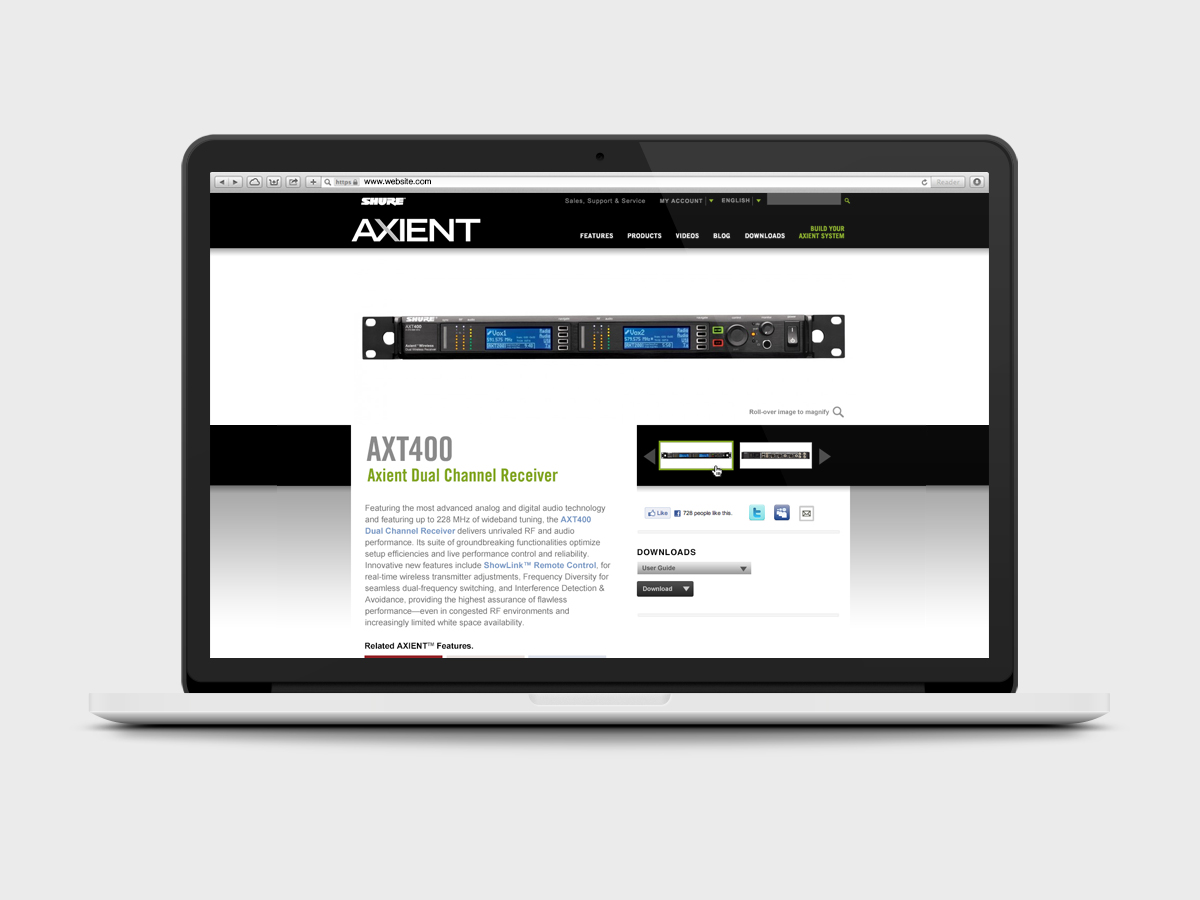
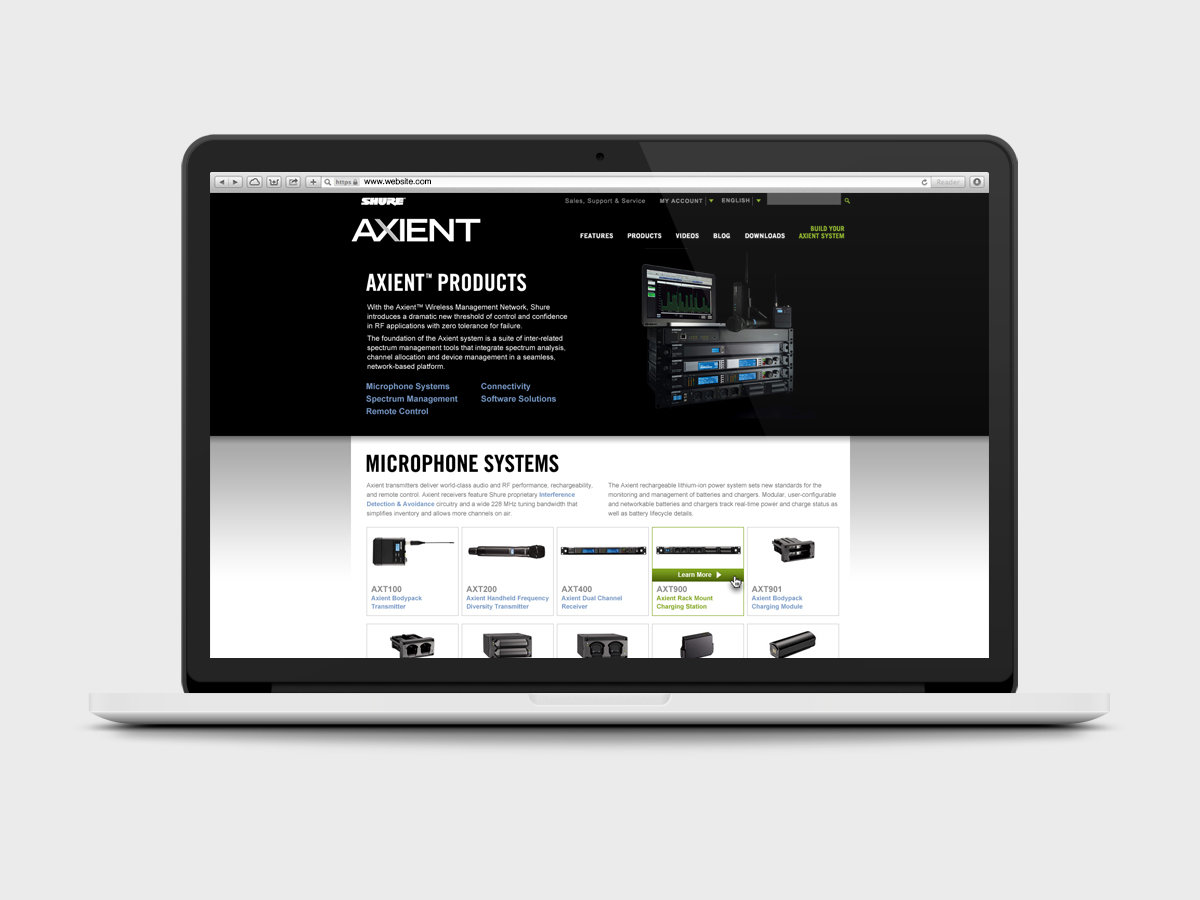
Work sub-pages: second pass with curated images in Pete's order

Changed region(s): [[0.1542, 0.2489, 0.8325, 0.7467]]

diff --git a/work/application.html b/work/application.html
@@ -42,17 +42,15 @@
           <h2>BenAdv — Benefits Advisor Enrollment</h2>
           <p class="work-project-desc">Full redesign of a benefits-management company's enrollment experience. A new web portal promoting benefit selection during open enrollment — employees could add, review, and edit personal info before selecting from their available benefits.</p>
           <div class="image-grid">
-            <div class="image-cell"><img src="../images/work/application/benadv_ee.png" alt="BenAdv Employee Experience"></div>
-            <div class="image-cell"><img src="../images/work/application/benadv_er.png" alt="BenAdv Employer Experience"></div>
-            <div class="image-cell"><img src="../images/work/application/home-_-open-enrollment.png" alt="Home — Open Enrollment"></div>
-            <div class="image-cell"><img src="../images/work/application/enrollment-_-welcome-what-s-to-come-1.png" alt="Enrollment Welcome"></div>
-            <div class="image-cell"><img src="../images/work/application/enrollment-_-tier-selection.png" alt="Enrollment Tier Selection"></div>
-            <div class="image-cell"><img src="../images/work/application/enrollment-_-plan-wall-3.png" alt="Enrollment Plan Wall"></div>
-            <div class="image-cell"><img src="../images/work/application/enrollment-_-benefit-selection-knockout.png" alt="Benefit Selection"></div>
-            <div class="image-cell"><img src="../images/work/application/enrollment-_-dependent-_-review.png" alt="Dependent Review"></div>
-            <div class="image-cell"><img src="../images/work/application/enrollment-_-review-_-cart.png" alt="Review Cart"></div>
-            <div class="image-cell"><img src="../images/work/application/portal-_-your-profle.png" alt="Portal Profile"></div>
-            <div class="image-cell"><img src="../images/work/application/portal-_-your-profle-_-dependents.png" alt="Portal Profile Dependents"></div>
+            <div class="image-cell"><img src="../images/work/application/benadv_ee-logo.png" alt="BenAdv"></div>
+            <div class="image-cell"><img src="../images/work/application/01-benadv-portal-_-your-profle.png" alt="Portal — Your Profile"></div>
+            <div class="image-cell"><img src="../images/work/application/02-benadv-portal-_-your-profle-_-dependents.png" alt="Portal — Your Profile — Dependents"></div>
+            <div class="image-cell"><img src="../images/work/application/03-benadv-enroll_home_open-enrollment.png" alt="Home — Open Enrollment"></div>
+            <div class="image-cell"><img src="../images/work/application/04-benadv-enroll_dependent-_-review.png" alt="Enrollment — Dependent Review"></div>
+            <div class="image-cell"><img src="../images/work/application/05-benadv-enroll_benefit-selection-knockout.png" alt="Enrollment — Benefit Selection"></div>
+            <div class="image-cell"><img src="../images/work/application/06-benadv-enroll_tier-selection.png" alt="Enrollment — Tier Selection"></div>
+            <div class="image-cell"><img src="../images/work/application/07-benadv-enroll_plan-wall-3.png" alt="Enrollment — Plan Wall"></div>
+            <div class="image-cell"><img src="../images/work/application/08-benadv-enroll_review-_-cart.png" alt="Enrollment — Review Cart"></div>
           </div>
         </div>
 
@@ -61,36 +59,36 @@
           <h2>PEOPLE</h2>
           <p class="work-project-desc">Custom HR onboarding application giving companies deep customization over their onboarding flows — including a document-signing experience with legal and W2 capability, plus document and video sharing. The work covered both the HR-admin backend UX and the employee-facing experience used throughout an employee's tenure.</p>
           <div class="image-grid">
-            <div class="image-cell"><img src="../images/work/application/people-ee.png" alt="PEOPLE Employee Experience"></div>
+            <div class="image-cell"><img src="../images/work/application/people-ee-logo.png" alt="PEOPLE Employee Experience"></div>
+            <div class="image-cell"><img src="../images/work/application/01_ee-people-homeprogress_v2.png" alt="EE — Home Progress"></div>
+            <div class="image-cell"><img src="../images/work/application/02_ee-people-home_v2.png" alt="EE — Home"></div>
+            <div class="image-cell"><img src="../images/work/application/03_ee-people-_task-i9_v2f2.png" alt="EE — I-9 Task"></div>
+            <div class="image-cell"><img src="../images/work/application/04_ee-people-mh-esign_v1.png" alt="EE — eSign"></div>
+            <div class="image-cell"><img src="../images/work/application/05_ee-people-task-fedw-4_wetsign.png" alt="EE — Federal W-4 Wet Signature"></div>
             <div class="image-cell"><img src="../images/work/application/people-er.png" alt="PEOPLE Employer Experience"></div>
-            <div class="image-cell"><img src="../images/work/application/01-home_updateroster_v1.png" alt="HR Update Roster"></div>
-            <div class="image-cell"><img src="../images/work/application/01_homeprogress_v2.png" alt="Onboarding Home Progress"></div>
-            <div class="image-cell"><img src="../images/work/application/02_ee-home_v2.png" alt="Employee Home"></div>
-            <div class="image-cell"><img src="../images/work/application/03_mh-esign_v1.png" alt="eSign Experience"></div>
-            <div class="image-cell"><img src="../images/work/application/013_task-fedw-4_wetsign_v2.png" alt="Federal W-4 Wet Signature"></div>
-            <div class="image-cell"><img src="../images/work/application/013s12_task-i9_v2f2.png" alt="I-9 Task"></div>
-            <div class="image-cell"><img src="../images/work/application/013s16-siteconfig_v1g_contentmarket.png" alt="Site Config Content Marketplace"></div>
-            <div class="image-cell"><img src="../images/work/application/013s19-er_wf-archived_v1.png" alt="Employer Archived Workflows"></div>
-            <div class="image-cell"><img src="../images/work/application/013s20-ee_profile_docs_v1.png" alt="Employee Profile Documents"></div>
-            <div class="image-cell"><img src="../images/work/application/013s20-er_wf-ee-progress_v1.png" alt="Employer Workflow Employee Progress"></div>
+            <div class="image-cell"><img src="../images/work/application/01-er-people-home_updateroster_v1.png" alt="ER — Update Roster"></div>
+            <div class="image-cell"><img src="../images/work/application/02-er-people-wf-ee-progress_v1.png" alt="ER — Employee Progress"></div>
+            <div class="image-cell"><img src="../images/work/application/03-er-people-wf-archived_v1.png" alt="ER — Archived Workflows"></div>
+            <div class="image-cell"><img src="../images/work/application/04-er_people-profile_docs_v1.png" alt="ER — Profile Documents"></div>
+            <div class="image-cell"><img src="../images/work/application/05-er-people-siteconfig_contentmarket.png" alt="ER — Site Config Content Marketplace"></div>
           </div>
         </div>
 
-        <!-- Concierge Mgmt -->
+        <!-- Concierge Management -->
         <div class="content-section">
           <h2>Concierge Management</h2>
           <p class="work-project-desc">Lorem ipsum dolor sit amet, consectetur adipiscing elit. Pellentesque habitant morbi tristique senectus et netus et malesuada fames ac turpis egestas — placeholder copy, replace with project description.</p>
           <div class="image-grid">
-            <div class="image-cell"><img src="../images/work/application/conciergemgmt_hz.png" alt="Concierge Management Overview"></div>
-            <div class="image-cell"><img src="../images/work/application/cm_00-home.png" alt="Concierge Management Home"></div>
-            <div class="image-cell"><img src="../images/work/application/cm_01-group-profile.png" alt="Group Profile"></div>
-            <div class="image-cell"><img src="../images/work/application/cm_03-group-locations.png" alt="Group Locations"></div>
-            <div class="image-cell"><img src="../images/work/application/cm_03-group-add-locations.png" alt="Add Group Locations"></div>
-            <div class="image-cell"><img src="../images/work/application/cm_memberadd.png" alt="Add Member"></div>
-            <div class="image-cell"><img src="../images/work/application/cm_memberinvites.png" alt="Member Invites"></div>
-            <div class="image-cell"><img src="../images/work/application/cm_products.png" alt="Products"></div>
-            <div class="image-cell"><img src="../images/work/application/cm_products-add.png" alt="Add Products"></div>
-            <div class="image-cell"><img src="../images/work/application/cm_qle_detail.png" alt="QLE Detail"></div>
+            <div class="image-cell"><img src="../images/work/application/conciergemgmt_logo.png" alt="Concierge Management"></div>
+            <div class="image-cell"><img src="../images/work/application/cm_00-home.png" alt="Concierge — Home"></div>
+            <div class="image-cell"><img src="../images/work/application/cm_01-group-profile.png" alt="Concierge — Group Profile"></div>
+            <div class="image-cell"><img src="../images/work/application/cm_02-group-locations.png" alt="Concierge — Group Locations"></div>
+            <div class="image-cell"><img src="../images/work/application/cm_03-group-add-locations.png" alt="Concierge — Add Locations"></div>
+            <div class="image-cell"><img src="../images/work/application/cm_04-products.png" alt="Concierge — Products"></div>
+            <div class="image-cell"><img src="../images/work/application/cm_05-products-add.png" alt="Concierge — Add Products"></div>
+            <div class="image-cell"><img src="../images/work/application/cm_06-memberinvites.png" alt="Concierge — Member Invites"></div>
+            <div class="image-cell"><img src="../images/work/application/cm_07-memberadd.png" alt="Concierge — Add Member"></div>
+            <div class="image-cell"><img src="../images/work/application/cm_08-qle_detail.png" alt="Concierge — QLE Detail"></div>
           </div>
         </div>
 

diff --git a/work/web.html b/work/web.html
@@ -42,10 +42,10 @@
           <h2>Great Coffee</h2>
           <p class="work-project-desc">Lorem ipsum dolor sit amet, consectetur adipiscing elit — placeholder copy, replace with project description.</p>
           <div class="image-grid">
-            <div class="image-cell"><img src="../images/work/web/greatcoffee_home.png" alt="Great Coffee Home"></div>
-            <div class="image-cell"><img src="../images/work/web/greatcoffee_detail.png" alt="Great Coffee Detail"></div>
-            <div class="image-cell"><img src="../images/work/web/greatcoffee_cart.png" alt="Great Coffee Cart"></div>
-            <div class="image-cell"><img src="../images/work/web/greatcoffee_wall.png" alt="Great Coffee Wall"></div>
+            <div class="image-cell"><img src="../images/work/web/greatcoffee_01-home.png" alt="Great Coffee — Home"></div>
+            <div class="image-cell"><img src="../images/work/web/greatcoffee_02-wall.png" alt="Great Coffee — Wall"></div>
+            <div class="image-cell"><img src="../images/work/web/greatcoffee_03-detail.png" alt="Great Coffee — Detail"></div>
+            <div class="image-cell"><img src="../images/work/web/greatcoffee_04-cart.png" alt="Great Coffee — Cart"></div>
           </div>
         </div>
 
@@ -54,9 +54,9 @@
           <h2>Popcorn Palace</h2>
           <p class="work-project-desc">Lorem ipsum dolor sit amet, consectetur adipiscing elit — placeholder copy, replace with project description.</p>
           <div class="image-grid">
-            <div class="image-cell"><img src="../images/work/web/popcorn-palace_home.png" alt="Popcorn Palace Home"></div>
-            <div class="image-cell"><img src="../images/work/web/popcorn-palace_detail.png" alt="Popcorn Palace Detail"></div>
-            <div class="image-cell"><img src="../images/work/web/popcorn-palace_club.png" alt="Popcorn Palace Club"></div>
+            <div class="image-cell"><img src="../images/work/web/popcorn-palace_01-home.png" alt="Popcorn Palace — Home"></div>
+            <div class="image-cell"><img src="../images/work/web/popcorn-palace_02-detail.png" alt="Popcorn Palace — Detail"></div>
+            <div class="image-cell"><img src="../images/work/web/popcorn-palace_03-club.png" alt="Popcorn Palace — Club"></div>
           </div>
         </div>
 
@@ -65,10 +65,10 @@
           <h2>Sophia Graydon</h2>
           <p class="work-project-desc">Lorem ipsum dolor sit amet, consectetur adipiscing elit — placeholder copy, replace with project description.</p>
           <div class="image-grid">
-            <div class="image-cell"><img src="../images/work/web/sophiagraydon_home.png" alt="Sophia Graydon Home"></div>
-            <div class="image-cell"><img src="../images/work/web/sophiagraydon_detail.png" alt="Sophia Graydon Detail"></div>
-            <div class="image-cell"><img src="../images/work/web/sophiagraydon_breakdown1.png" alt="Sophia Graydon Breakdown 1"></div>
-            <div class="image-cell"><img src="../images/work/web/sophiagraydon_breakdown2.png" alt="Sophia Graydon Breakdown 2"></div>
+            <div class="image-cell"><img src="../images/work/web/sophiagraydon_01-home.png" alt="Sophia Graydon — Home"></div>
+            <div class="image-cell"><img src="../images/work/web/sophiagraydon_02-detail.png" alt="Sophia Graydon — Detail"></div>
+            <div class="image-cell"><img src="../images/work/web/sophiagraydon_03-grid1.png" alt="Sophia Graydon — Grid 1"></div>
+            <div class="image-cell"><img src="../images/work/web/sophiagraydon_04-grid2.png" alt="Sophia Graydon — Grid 2"></div>
           </div>
         </div>
 
@@ -77,9 +77,9 @@
           <h2>Nature's One</h2>
           <p class="work-project-desc">Lorem ipsum dolor sit amet, consectetur adipiscing elit — placeholder copy, replace with project description.</p>
           <div class="image-grid">
-            <div class="image-cell"><img src="../images/work/web/naturesone_home.png" alt="Nature's One Home"></div>
-            <div class="image-cell"><img src="../images/work/web/naturesone_detail.png" alt="Nature's One Detail"></div>
-            <div class="image-cell"><img src="../images/work/web/naturesone_article.png" alt="Nature's One Article"></div>
+            <div class="image-cell"><img src="../images/work/web/naturesone_01-home.png" alt="Nature's One — Home"></div>
+            <div class="image-cell"><img src="../images/work/web/naturesone_02-detail.png" alt="Nature's One — Detail"></div>
+            <div class="image-cell"><img src="../images/work/web/naturesone_03-article.png" alt="Nature's One — Article"></div>
           </div>
         </div>
 
@@ -88,8 +88,8 @@
           <h2>Grant Thornton</h2>
           <p class="work-project-desc">Lorem ipsum dolor sit amet, consectetur adipiscing elit — placeholder copy, replace with project description.</p>
           <div class="image-grid">
-            <div class="image-cell"><img src="../images/work/web/grant-thornton_home.png" alt="Grant Thornton Home"></div>
-            <div class="image-cell"><img src="../images/work/web/grant-thornton_detail.png" alt="Grant Thornton Detail"></div>
+            <div class="image-cell"><img src="../images/work/web/grant-thornton_01-home.png" alt="Grant Thornton — Home"></div>
+            <div class="image-cell"><img src="../images/work/web/grant-thornton_02-detail.png" alt="Grant Thornton — Detail"></div>
           </div>
         </div>
 
@@ -98,8 +98,8 @@
           <h2>American College of Surgeons</h2>
           <p class="work-project-desc">Lorem ipsum dolor sit amet, consectetur adipiscing elit — placeholder copy, replace with project description.</p>
           <div class="image-grid">
-            <div class="image-cell"><img src="../images/work/web/acs_home.png" alt="ACS Home"></div>
-            <div class="image-cell"><img src="../images/work/web/acs_detail.png" alt="ACS Detail"></div>
+            <div class="image-cell"><img src="../images/work/web/acs_01-home.png" alt="ACS — Home"></div>
+            <div class="image-cell"><img src="../images/work/web/acs_02-detail.png" alt="ACS — Detail"></div>
           </div>
         </div>
 
@@ -108,9 +108,9 @@
           <h2>KATE</h2>
           <p class="work-project-desc">Lorem ipsum dolor sit amet, consectetur adipiscing elit — placeholder copy, replace with project description.</p>
           <div class="image-grid">
-            <div class="image-cell"><img src="../images/work/web/kate_wf4_presentation-3.png" alt="KATE Wireframe"></div>
-            <div class="image-cell"><img src="../images/work/web/kate_wf4_presentation-7.png" alt="KATE Wireframe"></div>
-            <div class="image-cell"><img src="../images/work/web/kate_wf4_presentation-15.png" alt="KATE Wireframe"></div>
+            <div class="image-cell"><img src="../images/work/web/kate_wf4_presentation-01.png" alt="KATE — Wireframe 1"></div>
+            <div class="image-cell"><img src="../images/work/web/kate_wf4_presentation-02.png" alt="KATE — Wireframe 2"></div>
+            <div class="image-cell"><img src="../images/work/web/kate_wf4_presentation-03.png" alt="KATE — Wireframe 3"></div>
           </div>
         </div>
 
@@ -120,8 +120,8 @@
           <p class="work-project-desc">Lorem ipsum dolor sit amet, consectetur adipiscing elit — placeholder copy and project name, replace before launch.</p>
           <div class="image-grid">
             <div class="image-cell"><img src="../images/work/web/ax1.jpg" alt="AX Project"></div>
+            <div class="image-cell"><img src="../images/work/web/ax2.jpg" alt="AX Project"></div>
             <div class="image-cell"><img src="../images/work/web/ax3.jpg" alt="AX Project"></div>
-            <div class="image-cell"><img src="../images/work/web/ax4.jpg" alt="AX Project"></div>
           </div>
         </div>
 

diff --git a/work/brands.html b/work/brands.html
@@ -42,10 +42,9 @@
           <h2>Hotel SAX</h2>
           <p class="work-project-desc">Lorem ipsum dolor sit amet, consectetur adipiscing elit — placeholder copy, replace with project description.</p>
           <div class="image-grid">
-            <div class="image-cell"><img src="../images/work/brands/hotelsax_webhome.png" alt="Hotel SAX Web Home"></div>
-            <div class="image-cell"><img src="../images/work/brands/hotelsax_web-experience.png" alt="Hotel SAX Web Experience"></div>
-            <div class="image-cell"><img src="../images/work/brands/hotelsax_brochurespreads.png" alt="Hotel SAX Brochure Spreads"></div>
-            <div class="image-cell"><img src="../images/work/brands/hotelsax_customcarrier.png" alt="Hotel SAX Custom Carrier"></div>
+            <div class="image-cell"><img src="../images/work/brands/01_hotelsax_webhome.png" alt="Hotel SAX — Web Home"></div>
+            <div class="image-cell"><img src="../images/work/brands/02_hotelsax_web-experience.png" alt="Hotel SAX — Web Experience"></div>
+            <div class="image-cell"><img src="../images/work/brands/03_hotelsax_brochurespreads.png" alt="Hotel SAX — Brochure Spreads"></div>
           </div>
         </div>
 
@@ -54,8 +53,8 @@
           <h2>RAID</h2>
           <p class="work-project-desc">Lorem ipsum dolor sit amet, consectetur adipiscing elit — placeholder copy, replace with project description.</p>
           <div class="image-grid">
-            <div class="image-cell"><img src="../images/work/brands/raid-dm-fullsize-pieced.jpg" alt="RAID Direct Mail"></div>
-            <div class="image-cell"><img src="../images/work/brands/raid-bug-shirts_2.jpg" alt="RAID Bug Shirts"></div>
+            <div class="image-cell"><img src="../images/work/brands/01_raid-bug-shirts_2.jpg" alt="RAID — Bug Shirts"></div>
+            <div class="image-cell"><img src="../images/work/brands/02_raid-b1921-rk_header_hd_1.jpg" alt="RAID — RK Header"></div>
           </div>
         </div>
 
@@ -64,10 +63,9 @@
           <h2>ARI</h2>
           <p class="work-project-desc">Lorem ipsum dolor sit amet, consectetur adipiscing elit — placeholder copy, replace with project description.</p>
           <div class="image-grid">
-            <div class="image-cell"><img src="../images/work/brands/ari0033_claws_elev_hr.jpg" alt="ARI Claws"></div>
-            <div class="image-cell"><img src="../images/work/brands/ari0033_hooked_elev_hr.jpg" alt="ARI Hooked"></div>
-            <div class="image-cell"><img src="../images/work/brands/ari0033_shocker_elev_hr.jpg" alt="ARI Shocker"></div>
-            <div class="image-cell"><img src="../images/work/brands/b1921-rk_header_hd_1.jpg" alt="RK Header"></div>
+            <div class="image-cell"><img src="../images/work/brands/ari0033_claws_elev_hr.jpg" alt="ARI — Claws"></div>
+            <div class="image-cell"><img src="../images/work/brands/ari0033_hooked_elev_hr.jpg" alt="ARI — Hooked"></div>
+            <div class="image-cell"><img src="../images/work/brands/ari0033_shocker_elev_hr.jpg" alt="ARI — Shocker"></div>
           </div>
         </div>
 
@@ -76,16 +74,15 @@
           <h2>Logo Collection</h2>
           <p class="work-project-desc">A selection of identity and logo work spanning agencies and clients — from startup brands to consumer products.</p>
           <div class="image-grid">
-            <div class="image-cell"><img src="../images/work/brands/foxivity.png" alt="Foxivity"></div>
-            <div class="image-cell"><img src="../images/work/brands/hawks.png" alt="Hawks"></div>
-            <div class="image-cell"><img src="../images/work/brands/iee.png" alt="IEE"></div>
-            <div class="image-cell"><img src="../images/work/brands/itrees.png" alt="iTrees"></div>
-            <div class="image-cell"><img src="../images/work/brands/notplayin.png" alt="Not Playin'"></div>
-            <div class="image-cell"><img src="../images/work/brands/oki.png" alt="OKI"></div>
-            <div class="image-cell"><img src="../images/work/brands/otherhalf.png" alt="Other Half"></div>
-            <div class="image-cell"><img src="../images/work/brands/stone-head.png" alt="Stone Head"></div>
-            <div class="image-cell"><img src="../images/work/brands/treadz.png" alt="Treadz"></div>
-            <div class="image-cell"><img src="../images/work/brands/trove.png" alt="Trove"></div>
+            <div class="image-cell"><img src="../images/work/brands/01_logo-iee.png" alt="IEE"></div>
+            <div class="image-cell"><img src="../images/work/brands/02_logo-notplayin.png" alt="Not Playin'"></div>
+            <div class="image-cell"><img src="../images/work/brands/03_logo-treadz.png" alt="Treadz"></div>
+            <div class="image-cell"><img src="../images/work/brands/04_logo-foxivity.png" alt="Foxivity"></div>
+            <div class="image-cell"><img src="../images/work/brands/05_logo-otherhalf.png" alt="Other Half"></div>
+            <div class="image-cell"><img src="../images/work/brands/06_logo-itrees.png" alt="iTrees"></div>
+            <div class="image-cell"><img src="../images/work/brands/07_logo-stone-head.png" alt="Stone Head"></div>
+            <div class="image-cell"><img src="../images/work/brands/08_logo-trove.png" alt="Trove"></div>
+            <div class="image-cell"><img src="../images/work/brands/09_logo-hawks.png" alt="Hawks"></div>
           </div>
         </div>
 